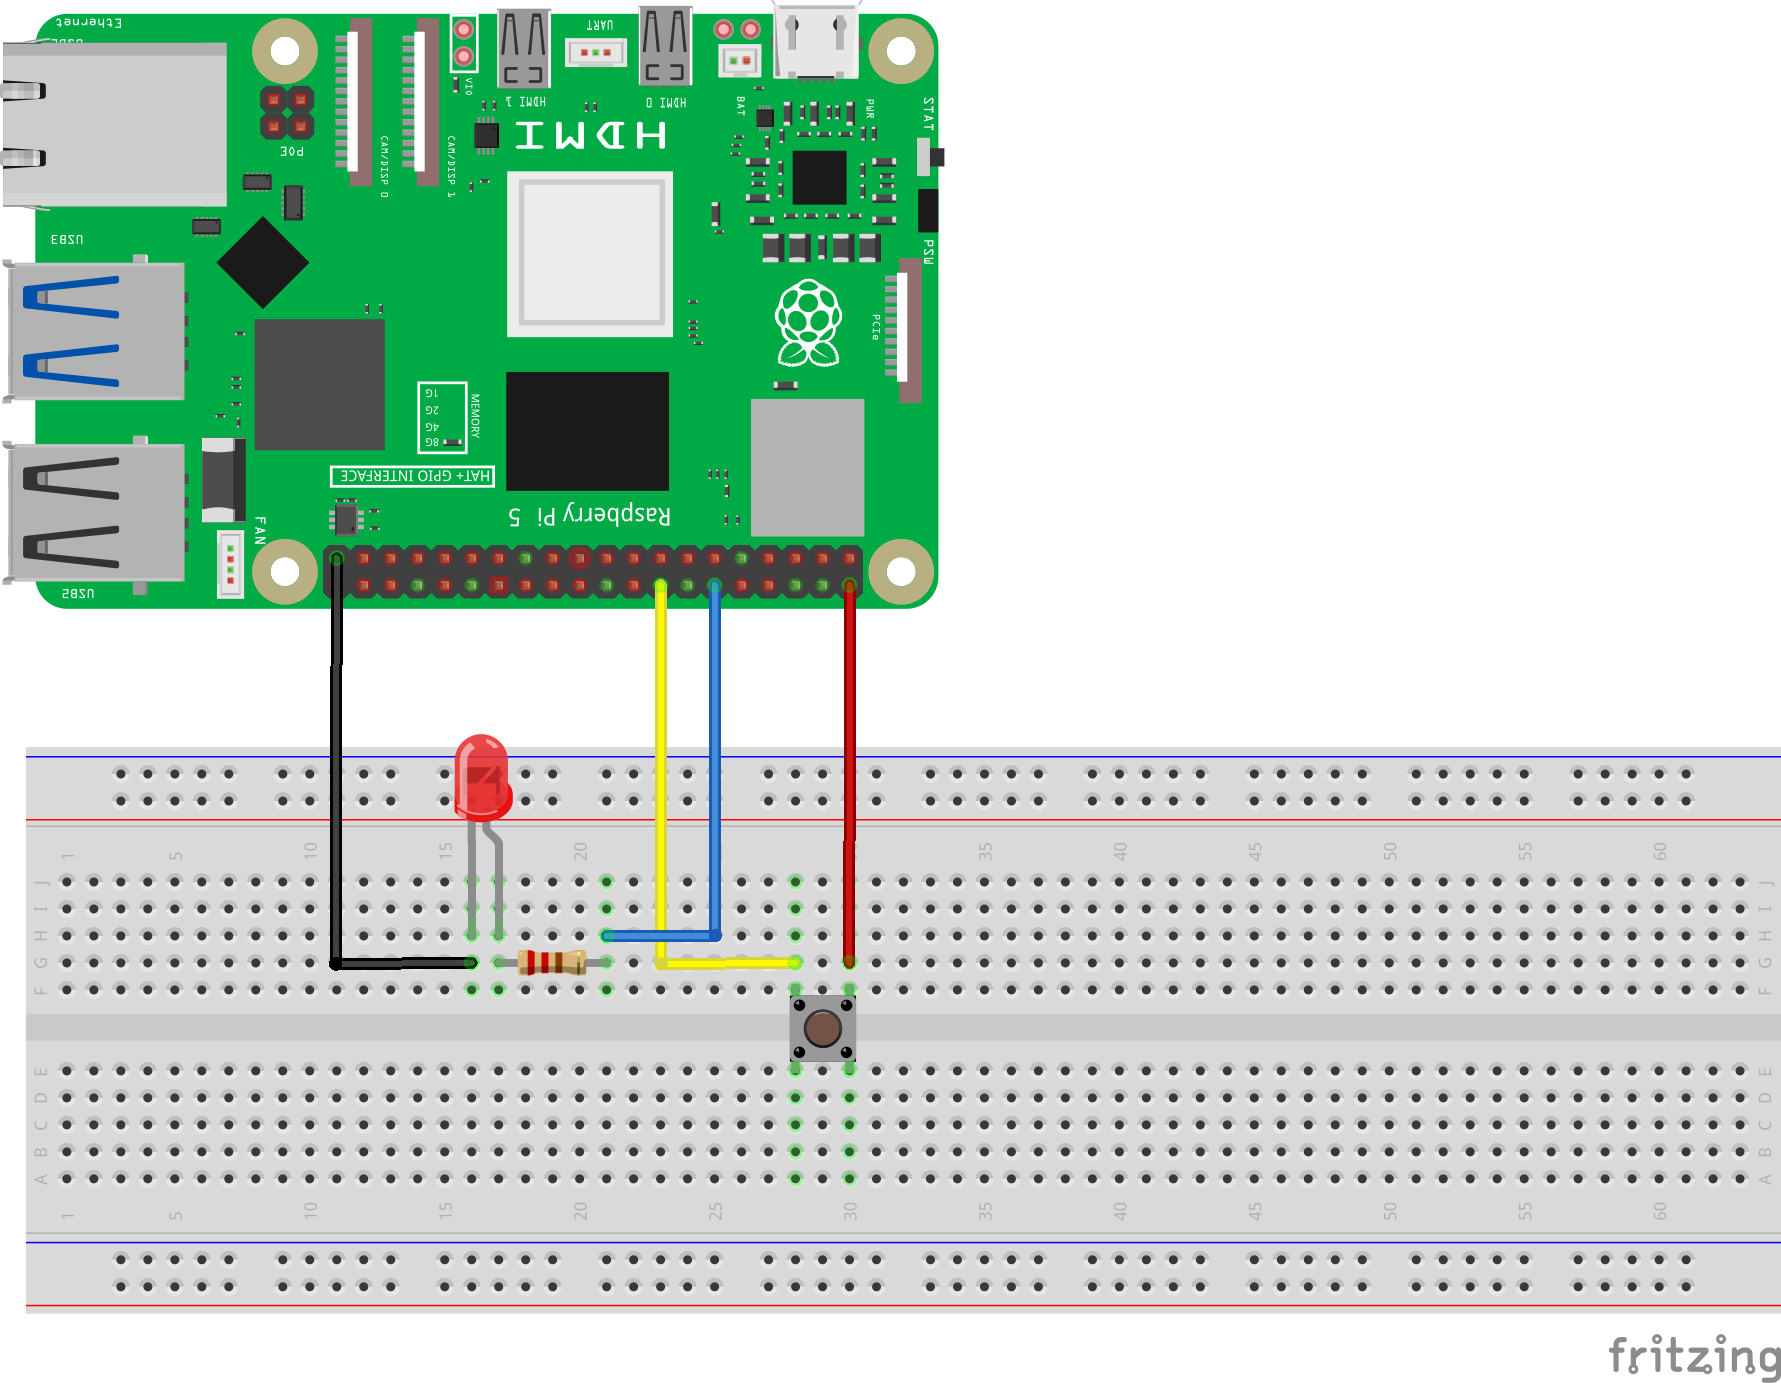
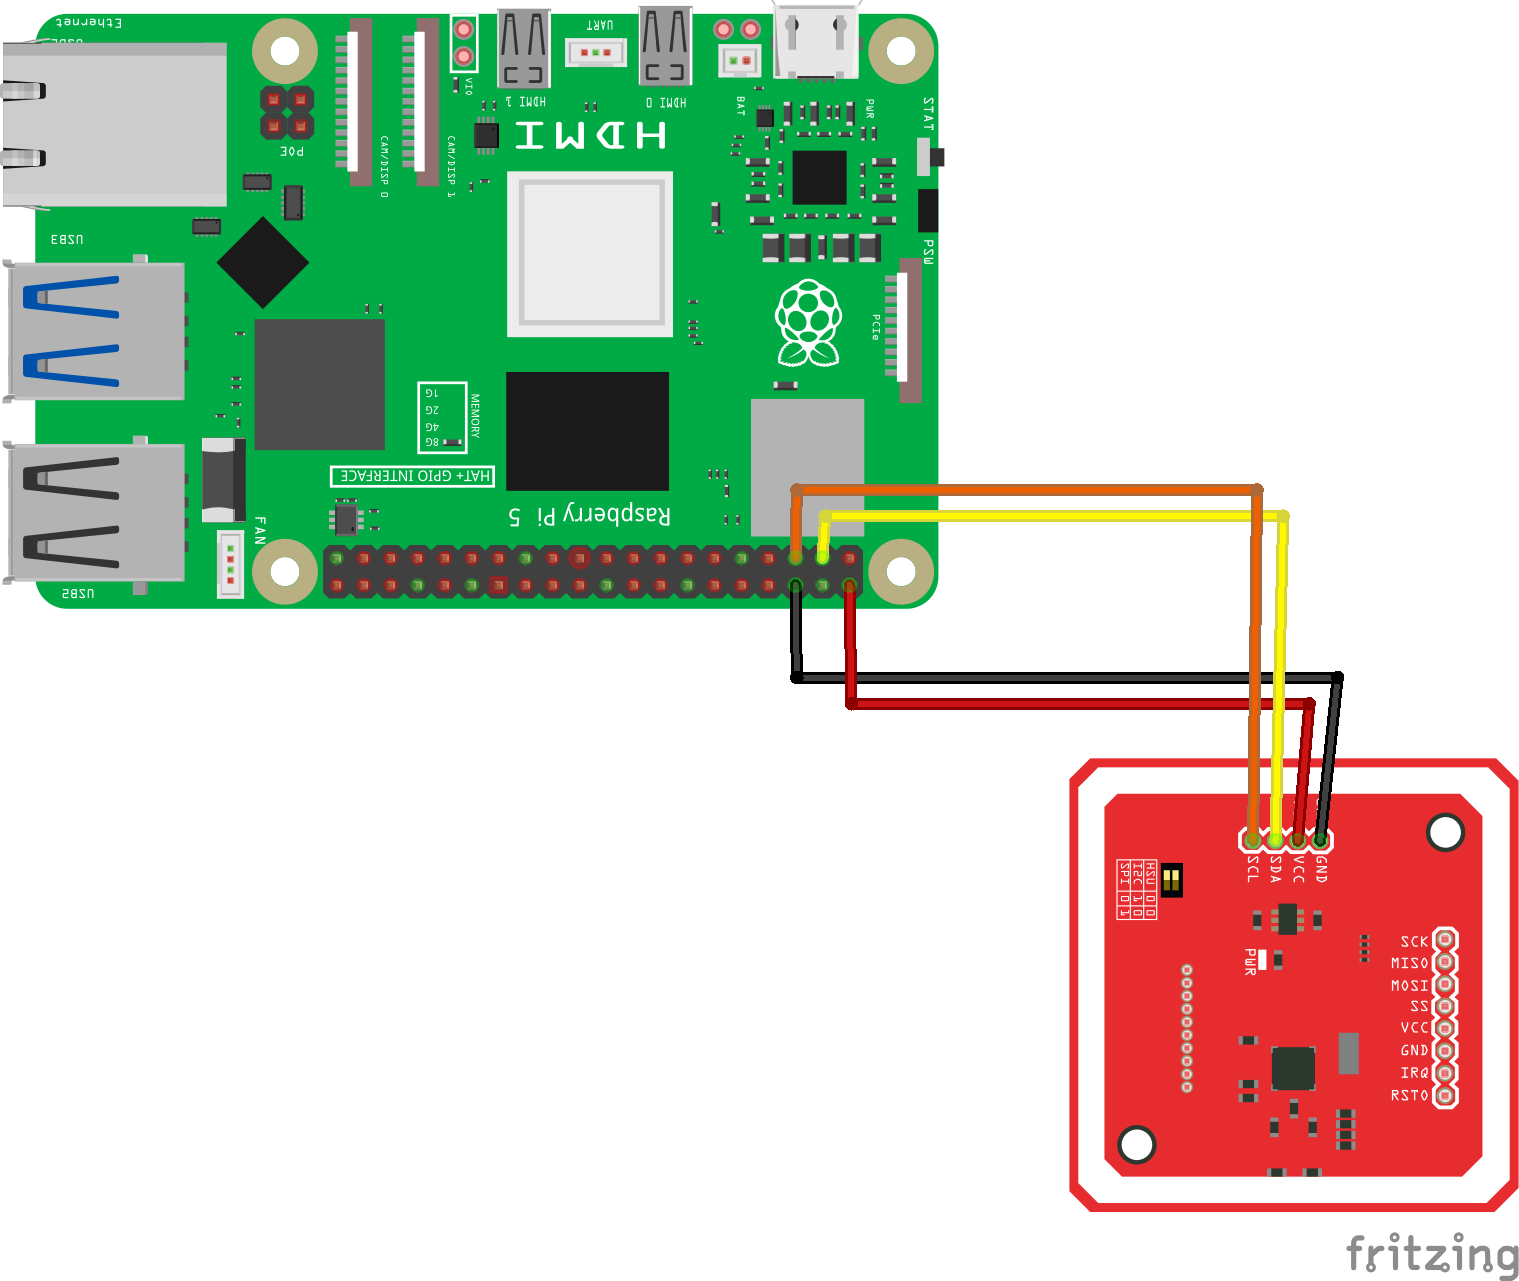
deploy: f6841ecfd6ea166a79098348cb17ffe5e5bc8be8

diff --git a/circuitPythonLessons/module2/lesson17/weblcd.html b/circuitPythonLessons/module2/lesson17/weblcd.html
@@ -279,7 +279,7 @@
 <section id="id3">
 <h2>Схема подключения<a class="headerlink" href="#id3" title="Ссылка на этот заголовок"></a></h2>
 <figure class="align-center" id="id12">
-<a class="reference internal image-reference" href="../../../_images/image3.png"><img alt="../../../_images/image3.png" src="../../../_images/image3.png" style="width: 80%;" />
+<a class="reference internal image-reference" href="../../../_images/image4.png"><img alt="../../../_images/image4.png" src="../../../_images/image4.png" style="width: 80%;" />
 </a>
 <figcaption>
 <p><span class="caption-text"><strong>Рис. 1:</strong> Схема подключения LCD-дисплея с I2C модулем к Raspberry Pi</span><a class="headerlink" href="#id12" title="Ссылка на это изображение"></a></p>

diff --git a/circuitPythonLessons/module1/lesson2/button.html b/circuitPythonLessons/module1/lesson2/button.html
@@ -283,7 +283,7 @@
 <section id="id4">
 <h2>Схема подключения<a class="headerlink" href="#id4" title="Ссылка на этот заголовок"></a></h2>
 <figure class="align-center" id="id10">
-<a class="reference internal image-reference" href="../../../_images/image2.png"><img alt="../../../_images/image2.png" src="../../../_images/image2.png" style="width: 80%;" />
+<a class="reference internal image-reference" href="../../../_images/image3.png"><img alt="../../../_images/image3.png" src="../../../_images/image3.png" style="width: 80%;" />
 </a>
 <figcaption>
 <p><span class="caption-text"><strong>Рис. 1:</strong> Схема подключения кнопки и светодиода</span><a class="headerlink" href="#id10" title="Ссылка на это изображение"></a></p>

diff --git a/circuitPythonLessons/module1/lesson18/mfrc522.html b/circuitPythonLessons/module1/lesson18/mfrc522.html
@@ -280,6 +280,10 @@
 </section>
 <section id="id3">
 <h2>Схема подключения<a class="headerlink" href="#id3" title="Ссылка на этот заголовок"></a></h2>
+<figure class="align-center">
+<a class="reference internal image-reference" href="../../../_images/image2.png"><img alt="../../../_images/image2.png" src="../../../_images/image2.png" style="width: 80%;" />
+</a>
+</figure>
 <p>Модуль PN532 может работать через разные интерфейсы: I2C, SPI или UART. В этом уроке мы используем I2C как наиболее простой вариант, требующий минимального количества проводов.</p>
 </section>
 <section id="id4">
